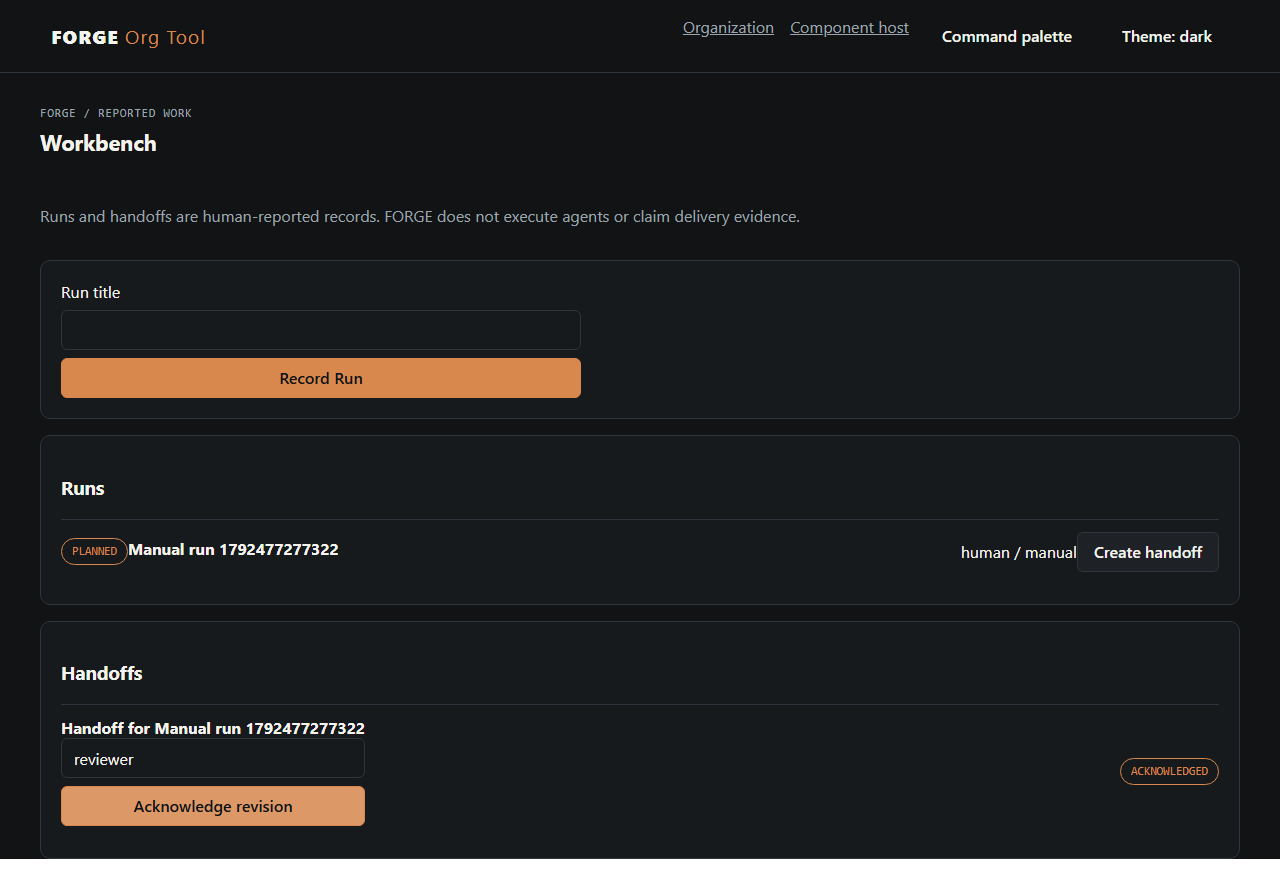
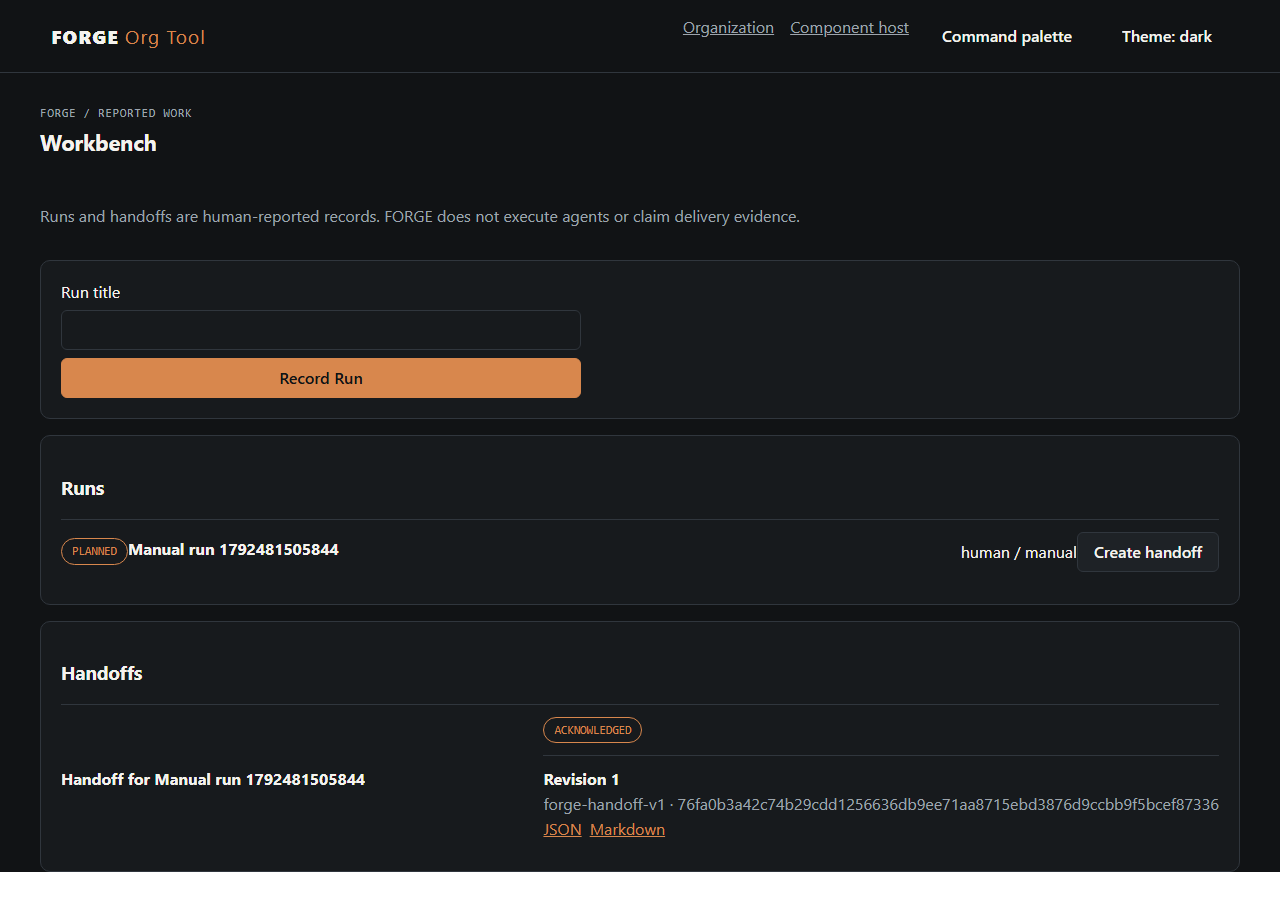
feat: complete reported handoff lifecycle

diff --git a/apps/web/src/features/workbench/WorkbenchPage.tsx b/apps/web/src/features/workbench/WorkbenchPage.tsx
@@ -1,18 +1,24 @@
 import { useEffect, useState, type FormEvent } from 'react';
 import { useParams } from 'react-router-dom';
 import { Button, Card, Input, SectionHeader, StatusChip } from '@forge-org/ui';
-import { organizationApi, type Handoff, type Run } from '@forge-org/api-client';
+import { organizationApi, type Handoff, type HandoffRevision, type Run } from '@forge-org/api-client';
 import styles from './WorkbenchPage.module.css';
 
 export function WorkbenchPage() {
   const { workspaceId = '', projectId = '' } = useParams();
   const [runs, setRuns] = useState<Run[]>([]);
   const [handoffs, setHandoffs] = useState<Handoff[]>([]);
+  const [revisions, setRevisions] = useState<Record<string, HandoffRevision[]>>({});
   const [title, setTitle] = useState('');
   const [error, setError] = useState('');
+  const [busyHandoffId, setBusyHandoffId] = useState<string | null>(null);
 
   async function load() {
-    try { setRuns(await organizationApi.listRuns(workspaceId, projectId)); setHandoffs(await organizationApi.listHandoffs(workspaceId, projectId)); }
+    try {
+      const [nextRuns, nextHandoffs] = await Promise.all([organizationApi.listRuns(workspaceId, projectId), organizationApi.listHandoffs(workspaceId, projectId)]);
+      const nextRevisions = await Promise.all(nextHandoffs.map(async (handoff) => [handoff.id, await organizationApi.listHandoffRevisions(workspaceId, projectId, handoff.id)] as const));
+      setRuns(nextRuns); setHandoffs(nextHandoffs); setRevisions(Object.fromEntries(nextRevisions));
+    }
     catch (cause) { setError(cause instanceof Error ? cause.message : 'Unable to load reported work.'); }
   }
   useEffect(() => { void load(); }, [workspaceId, projectId]);
@@ -21,16 +27,26 @@ export function WorkbenchPage() {
   async function saveHandoff(event: FormEvent, handoff: Handoff) {
     event.preventDefault();
     const values = new FormData(event.currentTarget as HTMLFormElement);
+    setBusyHandoffId(handoff.id);
     try { await organizationApi.updateHandoff(workspaceId, projectId, handoff.id, { expected_version: handoff.version, summary: String(values.get('summary') ?? ''), next_actions: String(values.get('next_actions') ?? '') }); await load(); }
     catch (cause) { setError(cause instanceof Error ? cause.message : 'Unable to update handoff.'); }
+    finally { setBusyHandoffId(null); }
   }
-  async function readyHandoff(handoff: Handoff) { try { await organizationApi.readyHandoff(workspaceId, projectId, handoff.id, handoff.version); await load(); } catch (cause) { setError(cause instanceof Error ? cause.message : 'Unable to make handoff ready.'); } }
+  async function readyHandoff(handoff: Handoff) {
+    setBusyHandoffId(handoff.id);
+    try { await organizationApi.readyHandoff(workspaceId, projectId, handoff.id, handoff.version); await load(); }
+    catch (cause) { setError(cause instanceof Error ? cause.message : 'Unable to make handoff ready.'); }
+    finally { setBusyHandoffId(null); }
+  }
   async function acknowledgeHandoff(event: FormEvent, handoff: Handoff) {
     event.preventDefault();
     const values = new FormData(event.currentTarget as HTMLFormElement);
     if (!handoff.current_revision) return;
+    setBusyHandoffId(handoff.id);
     try { await organizationApi.acknowledgeHandoff(workspaceId, projectId, handoff.id, handoff.current_revision, String(values.get('acknowledged_by') ?? '')); await load(); }
     catch (cause) { setError(cause instanceof Error ? cause.message : 'Unable to acknowledge handoff.'); }
+    finally { setBusyHandoffId(null); }
   }
-  return <div className={styles.stack}><SectionHeader title="Workbench" eyebrow="FORGE / Reported work" /><p>Runs and handoffs are human-reported records. FORGE does not execute agents or claim delivery evidence.</p>{error && <p role="alert">{error}</p>}<Card><form onSubmit={createRun} className={styles.form}><label htmlFor="run-title">Run title</label><Input id="run-title" value={title} onChange={(event) => setTitle(event.target.value)} required /><Button type="submit">Record Run</Button></form></Card><Card><h3>Runs</h3>{runs.length === 0 ? <p>No reported runs.</p> : runs.map((run) => <article className={styles.item} key={run.id}><div><StatusChip tone="accent">{run.status}</StatusChip><strong>{run.title}</strong></div><div><span>{run.executor_type} / {run.execution_mode}</span><Button variant="secondary" onClick={() => void createHandoff(run)} aria-label={`Create handoff for ${run.title}`}>Create handoff</Button></div></article>)}</Card><Card><h3>Handoffs</h3>{handoffs.length === 0 ? <p>No handoffs.</p> : handoffs.map((handoff) => <article className={styles.item} key={handoff.id}><div><strong>{handoff.title}</strong>{handoff.status === 'DRAFT' ? <form onSubmit={(event) => void saveHandoff(event, handoff)} className={styles.form}><Input name="summary" aria-label={`Summary for ${handoff.title}`} defaultValue={handoff.summary} placeholder="Summary" required /><Input name="next_actions" aria-label={`Next actions for ${handoff.title}`} defaultValue={handoff.next_actions} placeholder="Next actions" required /><div><Button type="submit">Save handoff details</Button><Button type="button" variant="secondary" onClick={() => void readyHandoff(handoff)}>Mark handoff ready</Button></div></form> : handoff.current_revision && <form onSubmit={(event) => void acknowledgeHandoff(event, handoff)} className={styles.form}><Input name="acknowledged_by" aria-label={`Acknowledged by ${handoff.title}`} placeholder="Reviewer" required /><Button type="submit">Acknowledge revision</Button></form>}</div><StatusChip tone="accent">{handoff.status}</StatusChip></article>)}</Card></div>;
+  const downloadPath = (handoffId: string, revision: number, format: 'json' | 'markdown') => `/api/v1/workspaces/${workspaceId}/projects/${projectId}/handoffs/${handoffId}/revisions/${revision}/download?format=${format}`;
+  return <div className={styles.stack}><SectionHeader title="Workbench" eyebrow="FORGE / Reported work" /><p>Runs and handoffs are human-reported records. FORGE does not execute agents or claim delivery evidence.</p>{error && <p role="alert">{error}</p>}<Card><form onSubmit={createRun} className={styles.form}><label htmlFor="run-title">Run title</label><Input id="run-title" value={title} onChange={(event) => setTitle(event.target.value)} required /><Button type="submit">Record Run</Button></form></Card><Card><h3>Runs</h3>{runs.length === 0 ? <p>No reported runs.</p> : runs.map((run) => <article className={styles.item} key={run.id}><div><StatusChip tone="accent">{run.status}</StatusChip><strong>{run.title}</strong></div><div><span>{run.executor_type} / {run.execution_mode}</span><Button variant="secondary" onClick={() => void createHandoff(run)} aria-label={`Create handoff for ${run.title}`}>Create handoff</Button></div></article>)}</Card><Card><h3>Handoffs</h3>{handoffs.length === 0 ? <p>No handoffs.</p> : handoffs.map((handoff) => <article className={styles.item} key={handoff.id}><div><strong>{handoff.title}</strong>{handoff.status === 'DRAFT' ? <form onSubmit={(event) => void saveHandoff(event, handoff)} className={styles.form}><Input name="summary" aria-label={`Summary for ${handoff.title}`} defaultValue={handoff.summary} placeholder="Summary" required /><Input name="next_actions" aria-label={`Next actions for ${handoff.title}`} defaultValue={handoff.next_actions} placeholder="Next actions" required /><div><Button type="submit" disabled={busyHandoffId === handoff.id}>Save handoff details</Button><Button type="button" variant="secondary" disabled={busyHandoffId === handoff.id} onClick={() => void readyHandoff(handoff)}>Mark handoff ready</Button></div></form> : handoff.status === 'READY' && handoff.current_revision && <><p>Ready handoffs are immutable revisions for human review; acknowledgement does not certify implementation, testing, CI, or release.</p><form onSubmit={(event) => void acknowledgeHandoff(event, handoff)} className={styles.form}><Input name="acknowledged_by" aria-label={`Acknowledged by ${handoff.title}`} placeholder="Reviewer" required /><Button type="submit" disabled={busyHandoffId === handoff.id}>Acknowledge revision</Button></form></>}</div><div><StatusChip tone="accent">{handoff.status}</StatusChip>{(revisions[handoff.id] ?? []).map((revision) => <div className={styles.revision} key={revision.id}><strong>Revision {revision.revision}</strong><span>{revision.schema_version} · {revision.fingerprint}</span><div><a href={downloadPath(handoff.id, revision.revision, 'json')}>JSON</a><a href={downloadPath(handoff.id, revision.revision, 'markdown')}>Markdown</a></div></div>)}</div></article>)}</Card></div>;
 }

diff --git a/apps/web/src/features/workbench/WorkbenchPage.test.tsx b/apps/web/src/features/workbench/WorkbenchPage.test.tsx
@@ -1,0 +1,49 @@
+import { cleanup, fireEvent, render, screen, waitFor } from '@testing-library/react';
+import '@testing-library/jest-dom/vitest';
+import { MemoryRouter, Route, Routes } from 'react-router-dom';
+import { afterEach, describe, expect, it, vi } from 'vitest';
+import { WorkbenchPage } from './WorkbenchPage';
+
+const run = { id: 'run1', project_id: 'p1', feature_id: null, title: 'Manual report', description: null, execution_mode: 'manual', executor_type: 'human', status: 'PLANNED', version: 1, created_at: '', updated_at: '' };
+const draft = { id: 'h1', project_id: 'p1', feature_id: null, run_id: 'run1', title: 'Next handoff', summary: '', next_actions: '', status: 'DRAFT', current_revision: null, version: 1, created_at: '', updated_at: '' };
+const ready = { ...draft, title: 'Ready handoff', summary: 'Reported summary', next_actions: 'Review manually', status: 'READY', current_revision: 1, version: 3 };
+const revision = { id: 'hr1', handoff_id: 'h1', revision: 1, title: ready.title, summary: ready.summary, next_actions: ready.next_actions, schema_version: 'forge-handoff-v1', fingerprint: 'handoff-fp', payload_json: '{}', markdown: '# Ready handoff', created_at: '' };
+
+describe('WorkbenchPage', () => {
+  afterEach(() => { cleanup(); vi.restoreAllMocks(); });
+
+  it('edits, publishes, reviews, acknowledges, and downloads an immutable handoff revision', async () => {
+    let handoff = { ...draft, current_revision: null as number | null, status: 'DRAFT' as string };
+    let handoffCreated = false;
+    let revisionPublished = false;
+    let acknowledged = false;
+    const fetchMock = vi.fn().mockImplementation((input: string, init?: RequestInit) => {
+      const path = String(input);
+      if (path.endsWith('/runs?status=&search=')) return Promise.resolve(new Response(JSON.stringify([run]), { status: 200 }));
+      if (path.endsWith('/handoffs') && !path.includes('/runs/')) return Promise.resolve(new Response(JSON.stringify(handoffCreated ? [{ ...handoff, ...(acknowledged ? { status: 'ACKNOWLEDGED' } : {}) }] : []), { status: 200 }));
+      if (path.endsWith('/runs/run1/handoffs') && init?.method === 'POST') { handoffCreated = true; handoff = { ...draft }; return Promise.resolve(new Response(JSON.stringify(handoff), { status: 201 })); }
+      if (path.endsWith('/handoffs/h1') && init?.method === 'PATCH') { handoff = { ...draft, title: 'Ready handoff', summary: 'Reported summary', next_actions: 'Review manually', version: 2 }; return Promise.resolve(new Response(JSON.stringify(handoff), { status: 200 })); }
+      if (path.endsWith('/handoffs/h1/ready')) { revisionPublished = true; handoff = { ...ready }; return Promise.resolve(new Response(JSON.stringify(handoff), { status: 200 })); }
+      if (path.endsWith('/handoffs/h1/revisions')) return Promise.resolve(new Response(JSON.stringify(revisionPublished ? [revision] : []), { status: 200 }));
+      if (path.endsWith('/handoffs/h1/acknowledge')) { acknowledged = true; return Promise.resolve(new Response(JSON.stringify({ id: 'ack1', handoff_id: 'h1', revision: 1, acknowledged_by: 'reviewer' }), { status: 200 })); }
+      return Promise.resolve(new Response(JSON.stringify([]), { status: 200 }));
+    });
+    vi.stubGlobal('fetch', fetchMock);
+    render(<MemoryRouter initialEntries={['/workbench/w1/p1']}><Routes><Route path="/workbench/:workspaceId/:projectId" element={<WorkbenchPage />} /></Routes></MemoryRouter>);
+
+    expect(await screen.findByText('Manual report')).toBeInTheDocument();
+    fireEvent.click(screen.getByRole('button', { name: 'Create handoff for Manual report' }));
+    expect(await screen.findByText('Next handoff')).toBeInTheDocument();
+    fireEvent.change(screen.getByRole('textbox', { name: 'Summary for Next handoff' }), { target: { value: 'Reported summary' } });
+    fireEvent.change(screen.getByRole('textbox', { name: 'Next actions for Next handoff' }), { target: { value: 'Review manually' } });
+    fireEvent.click(screen.getByRole('button', { name: 'Save handoff details' }));
+    await waitFor(() => expect(fetchMock).toHaveBeenCalledWith('/api/v1/workspaces/w1/projects/p1/handoffs/h1', expect.objectContaining({ method: 'PATCH' })));
+    fireEvent.click(screen.getByRole('button', { name: 'Mark handoff ready' }));
+    expect(await screen.findByText('Revision 1')).toBeInTheDocument();
+    expect(screen.getByRole('link', { name: 'JSON' })).toHaveAttribute('href', '/api/v1/workspaces/w1/projects/p1/handoffs/h1/revisions/1/download?format=json');
+    fireEvent.change(screen.getByRole('textbox', { name: 'Acknowledged by Ready handoff' }), { target: { value: 'reviewer' } });
+    fireEvent.click(screen.getByRole('button', { name: 'Acknowledge revision' }));
+    await waitFor(() => expect(fetchMock).toHaveBeenCalledWith('/api/v1/workspaces/w1/projects/p1/handoffs/h1/acknowledge', expect.objectContaining({ method: 'POST' })));
+    await waitFor(() => expect(screen.queryByRole('button', { name: 'Acknowledge revision' })).not.toBeInTheDocument());
+  });
+});

diff --git a/apps/web/e2e/m1-browser.spec.ts b/apps/web/e2e/m1-browser.spec.ts
@@ -112,6 +112,9 @@ test('workbench records reported runs and keeps handoffs human-owned', async ({ 
   await page.getByLabel(`Acknowledged by Handoff for Manual run ${suffix}`).fill('reviewer');
   await page.getByRole('button', { name: 'Acknowledge revision' }).click();
   await expect(page.getByText('ACKNOWLEDGED', { exact: true })).toBeVisible();
+  await expect(page.getByText('Revision 1')).toBeVisible();
+  await expect(page.getByRole('link', { name: 'JSON' })).toHaveAttribute('href', /\/handoffs\/.*\/revisions\/1\/download\?format=json/);
+  await expect(page.getByRole('link', { name: 'Markdown' })).toHaveAttribute('href', /\/handoffs\/.*\/revisions\/1\/download\?format=markdown/);
   await expect(page.getByText(/does not execute agents/i)).toBeVisible();
   const screenshotName = test.info().project.name === 'chromium-mobile' ? 'mobile-workbench.png' : 'desktop-workbench.png';
   await page.screenshot({ path: resolve(evidenceDir, screenshotName), fullPage: true });

diff --git a/apps/web/src/features/workbench/WorkbenchPage.module.css b/apps/web/src/features/workbench/WorkbenchPage.module.css
@@ -2,3 +2,6 @@
 .stack p { color: var(--forge-text-muted); line-height: 1.5; }
 .form { display: grid; gap: var(--forge-space-2); max-width: 520px; }
 .item { display: flex; justify-content: space-between; align-items: center; gap: var(--forge-space-3); border-top: 1px solid var(--forge-border); padding: var(--forge-space-3) 0; }
+.revision { display: grid; gap: var(--forge-space-1); margin-top: var(--forge-space-3); padding-top: var(--forge-space-3); border-top: 1px solid var(--forge-border); }
+.revision span { color: var(--forge-text-muted); overflow-wrap: anywhere; }
+.revision div { display: flex; flex-wrap: wrap; gap: var(--forge-space-2); }
